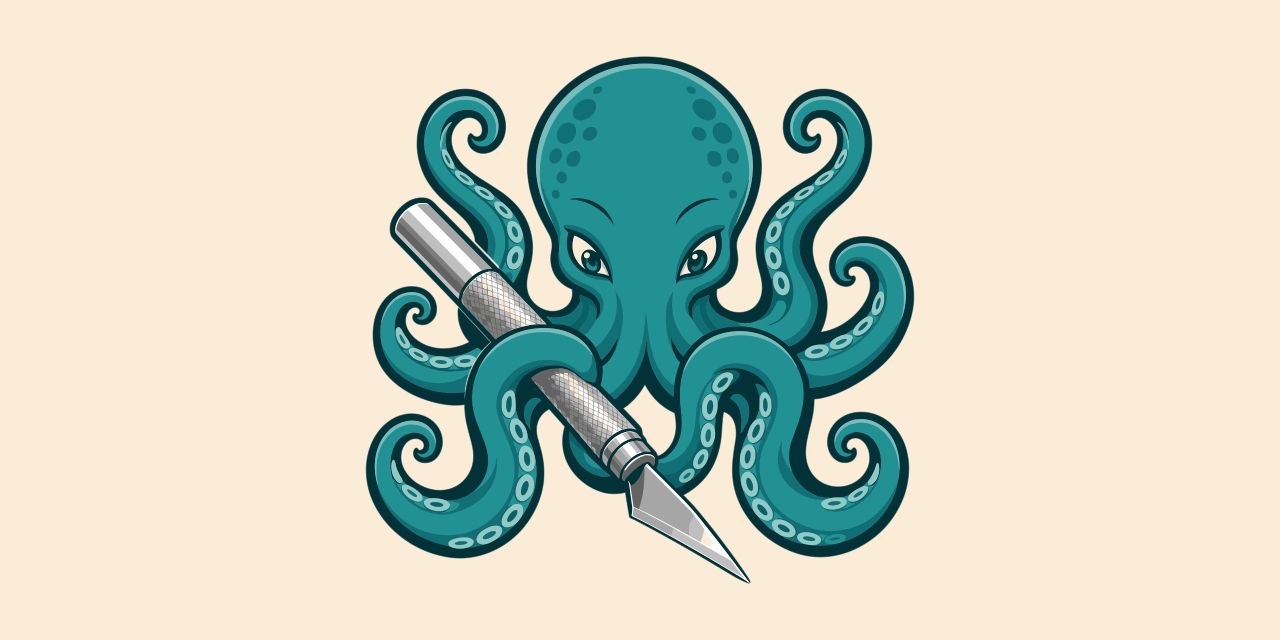
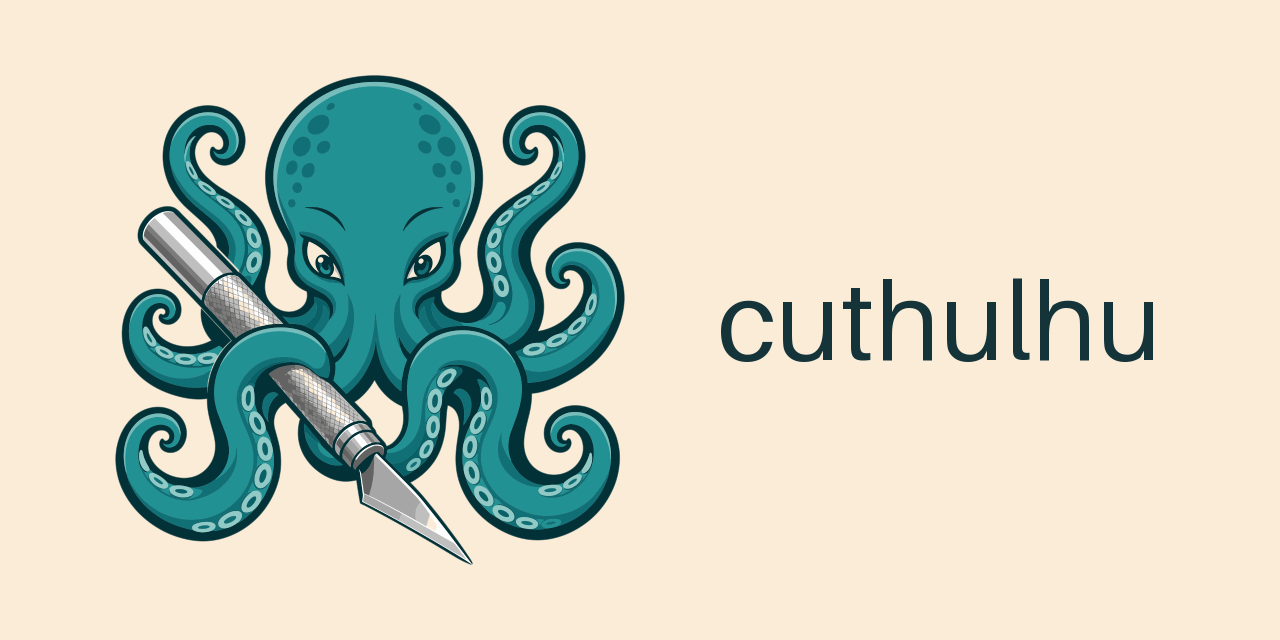
Put the application name on the social preview card
The mascot alone identifies nothing at feed size; mascot left, wordmark
right. The type comes from Pillow's embedded font, which is pinned with
Pillow itself, so the card does not depend on the host's font set.

diff --git a/docs/branding/build-icons.py b/docs/branding/build-icons.py
@@ -199,14 +199,22 @@ def compile_assets_car():
 
 
 def write_social_card(path):
-    """GitHub social preview (1280x640): the mascot centred on cream.
+    """GitHub social preview (1280x640): mascot left, wordmark right, on cream.
 
     Uploaded manually in the repository settings - GitHub has no API for it -
-    but generated here so the card regenerates with the artwork.
+    but generated here so the card regenerates with the artwork. The wordmark
+    uses Pillow's embedded font: pinned with Pillow itself, so the card does
+    not depend on whatever fonts the host happens to have.
     """
+    from PIL import ImageDraw, ImageFont
     card = Image.new("RGBA", (1280, 640), CREAM)
-    a = art(560)
-    card.paste(a, ((1280 - 560) // 2, (640 - 560) // 2), a)
+    a = art(520)
+    card.paste(a, (110, 60), a)
+    d = ImageDraw.Draw(card)
+    font = ImageFont.load_default(size=110)
+    x0, y0, x1, y1 = d.textbbox((0, 0), "cuthulhu", font=font)
+    d.text((640 + (600 - (x1 - x0)) // 2 - x0, (640 - (y1 - y0)) // 2 - y0),
+           "cuthulhu", font=font, fill=(20, 52, 58, 255))
     save(card.convert("RGB"), path)
 
 
